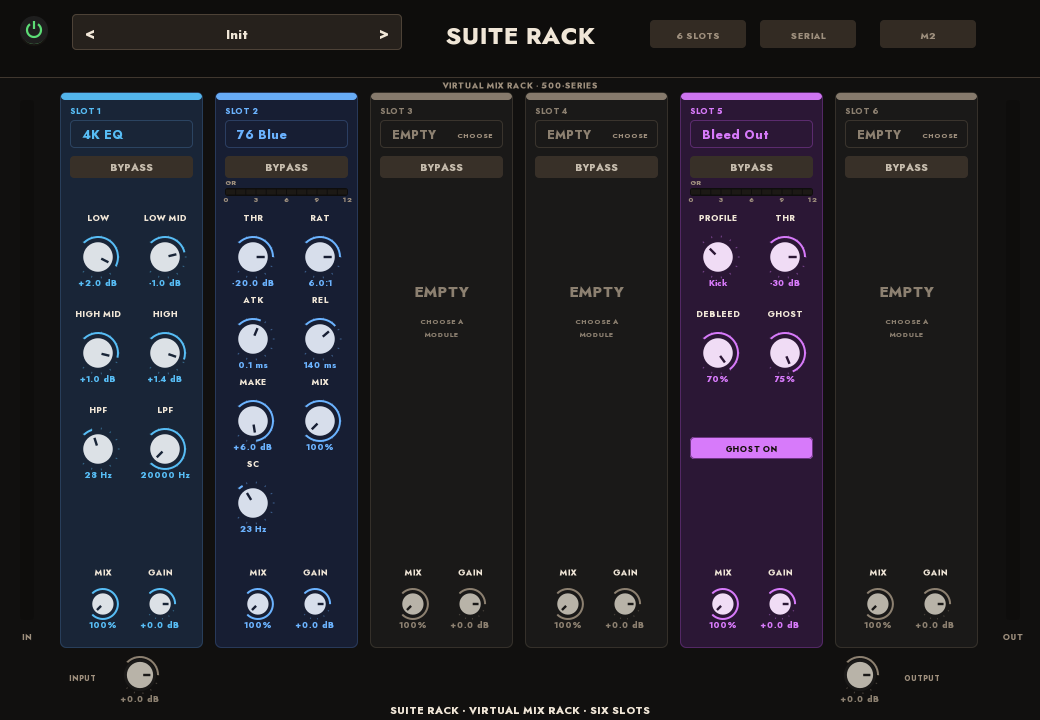
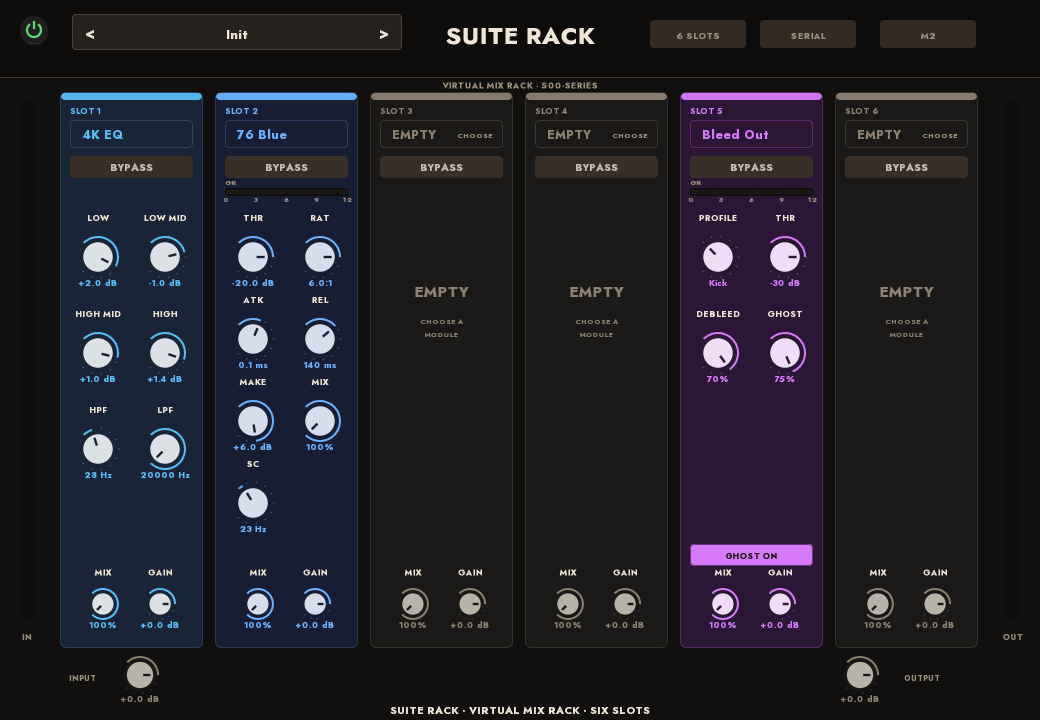
Suite Rack 0.10.0-m2 — Filter and Motion modules, bottom mode buttons

Changed region(s): [[0.6462, 0.7333, 0.8, 0.7944], [0.6462, 0.5806, 0.8, 0.6417]]

diff --git a/src/ui/panel.cpp b/src/ui/panel.cpp
@@ -120,6 +120,12 @@ ModuleStyle styleFor(int type) {
     case ModuleId::Crush:
       return {{0.24, 0.11, 0.07}, {0.50, 0.24, 0.12},
               {0.98, 0.56, 0.24}, {0.94, 0.86, 0.72}};
+    case ModuleId::Filter:
+      return {{0.08, 0.14, 0.21}, {0.18, 0.30, 0.42},
+              {0.42, 0.76, 0.98}, {0.86, 0.91, 0.94}};
+    case ModuleId::Motion:
+      return {{0.24, 0.13, 0.08}, {0.50, 0.28, 0.14},
+              {0.98, 0.66, 0.28}, {0.95, 0.88, 0.74}};
     default:
       return {{0.105, 0.10, 0.095}, {0.24, 0.22, 0.19},
               {0.55, 0.50, 0.44}, {0.72, 0.70, 0.66}};
@@ -248,27 +254,31 @@ void Panel::layout(const Shared& shared, const PanelState& state) {
     if (module->controlCount > 0) {
       const int rows = (module->controlCount + 1) / 2;
       const double rowH = rows >= 4 ? 82.0 : 96.0;
+      int toggleSlot = 0;
       for (int k = 0; k < module->controlCount; ++k) {
         const ControlDesc& control = module->controls[k];
-        const double ky = y + 165.0 + (k / 2) * rowH;
         if (control.toggled) {
+          // Mode buttons live at the bottom of the control area, just above
+          // the MIX/GAIN labels, so they never sit on top of a knob.
           Widget t{};
           t.kind = Kind::ModuleToggle;
           t.param = slotParam(i, kSlotOffsetC0 + control.param);
           t.x = x + 10;
-          t.y = ky - 12;
+          t.y = y + 452.0 - toggleSlot * 30.0;
           t.w = colW - 20;
           t.h = 22;
           t.label = control.label;
           t.styleSlot = i;
           t.styleType = type;
           widgets_.push_back(t);
-        } else {
-          const double kx = (k & 1) ? cx2 : cx1;
-          knob(slotParam(i, kSlotOffsetC0 + control.param), kx, ky, 18,
-               control.label, i, true, control.param,
-               control.stepped ? control.labels.count : 0);
+          ++toggleSlot;
+          continue;
         }
+        const double kx = (k & 1) ? cx2 : cx1;
+        const double ky = y + 165.0 + (k / 2) * rowH;
+        knob(slotParam(i, kSlotOffsetC0 + control.param), kx, ky, 18,
+             control.label, i, true, control.param,
+             control.stepped ? control.labels.count : 0);
       }
     }
 

diff --git a/src/modules.hpp b/src/modules.hpp
@@ -43,6 +43,10 @@ enum class ControlFormat {
   MonoHz,
   CrushBits,
   CrushToneHz,
+  FilterCutoffHz,
+  LfoRateHz,
+  FilterMode,
+  MotionMode,
 };
 
 struct ControlDesc {
@@ -164,6 +168,28 @@ inline constexpr ControlDesc kBleedOutControls[] = {
     {2, "DEBLEED", "DeBleed", ControlFormat::Percent},
     {3, "GHOST", "Ghost", ControlFormat::Percent},
     {4, "GHOST ON", "Ghost On", ControlFormat::Percent, false, {}, true},
+};
+
+inline constexpr const char* kFilterModeLabels[] = {"LP", "BP", "HP"};
+inline constexpr const char* kMotionModeLabels[] = {"Tremolo", "Auto-Pan",
+                                                    "Rotary"};
+
+inline constexpr ControlDesc kFilterControls[] = {
+    {0, "CUTOFF", "Cutoff", ControlFormat::FilterCutoffHz},
+    {1, "RES", "Resonance", ControlFormat::Percent},
+    {2, "ENV", "Envelope", ControlFormat::BipolarPercent},
+    {3, "RATE", "Rate", ControlFormat::LfoRateHz},
+    {4, "MODE", "Mode", ControlFormat::FilterMode, true,
+     labels(kFilterModeLabels)},
+};
+
+inline constexpr ControlDesc kMotionControls[] = {
+    {0, "RATE", "Rate", ControlFormat::LfoRateHz},
+    {1, "DEPTH", "Depth", ControlFormat::Percent},
+    {2, "WIDTH", "Width", ControlFormat::Percent},
+    {3, "MODE", "Mode", ControlFormat::MotionMode, true,
+     labels(kMotionModeLabels)},
+    {4, "MIX", "Mix", ControlFormat::Percent},
 };
 
 inline constexpr ControlDesc kImageControls[] = {
@@ -289,6 +315,14 @@ inline constexpr ModuleDesc kModules[] = {
      false, false, 0,
      static_cast<int>(sizeof(kCrushControls) / sizeof(kCrushControls[0])),
      kCrushControls},
+    {ModuleId::Filter, "Filter", "Dyn", "Envelope / LFO auto-filter", false,
+     false, 0,
+     static_cast<int>(sizeof(kFilterControls) / sizeof(kFilterControls[0])),
+     kFilterControls},
+    {ModuleId::Motion, "Motion", "Dyn", "Tremolo, auto-pan and rotary", false,
+     false, 0,
+     static_cast<int>(sizeof(kMotionControls) / sizeof(kMotionControls[0])),
+     kMotionControls},
 };
 
 static_assert(sizeof(kModules) / sizeof(kModules[0]) == kModuleCount,

diff --git a/src/dsp/engine.hpp b/src/dsp/engine.hpp
@@ -31,6 +31,8 @@ public:
     for (auto& limiter : limiter_) limiter.prepare(sr_);
     for (auto& image : image_) image.prepare(sr_);
     for (auto& crush : crush_) crush.prepare(sr_);
+    for (auto& filter : filter_) filter.prepare(sr_);
+    for (auto& motion : motion_) motion.prepare(sr_);
     input_.setTime(15.0f, sr_);
     output_.setTime(15.0f, sr_);
     power_.setTime(20.0f, sr_);
@@ -57,6 +59,8 @@ public:
       limiter_[i].setControls(limiterControlsFrom(c.slot[i]));
       image_[i].setControls(imageControlsFrom(c.slot[i]));
       crush_[i].setControls(crushControlsFrom(c.slot[i]));
+      filter_[i].setControls(filterControlsFrom(c.slot[i]));
+      motion_[i].setControls(motionControlsFrom(c.slot[i]));
       slotGain_[i].setTarget(hdsp::dbToGain(c.slot[i].gainDb));
     }
     input_.setTarget(hdsp::dbToGain(c.inputDb));
@@ -136,6 +140,12 @@ public:
           case ModuleId::Crush:
             crush_[s].process(l, r);
             break;
+          case ModuleId::Filter:
+            filter_[s].process(l, r);
+            break;
+          case ModuleId::Motion:
+            motion_[s].process(l, r);
+            break;
           case ModuleId::Count:
             continue;
         }
@@ -182,6 +192,8 @@ public:
     for (auto& limiter : limiter_) limiter.reset();
     for (auto& image : image_) image.reset();
     for (auto& crush : crush_) crush.reset();
+    for (auto& filter : filter_) filter.reset();
+    for (auto& motion : motion_) motion.reset();
     input_.snap();
     output_.snap();
     power_.snap();
@@ -217,6 +229,8 @@ private:
   hdsp::modules::Limiter limiter_[kSlotCount];
   hdsp::modules::Image image_[kSlotCount];
   hdsp::modules::Crush crush_[kSlotCount];
+  hdsp::modules::Filter filter_[kSlotCount];
+  hdsp::modules::Motion motion_[kSlotCount];
   hdsp::Smoothed input_, output_, power_;
   hdsp::Smoothed slotGain_[kSlotCount];
 };

diff --git a/src/value_text.hpp b/src/value_text.hpp
@@ -159,6 +159,20 @@ inline std::string formatControlValue(const ModuleDesc& module,
     case ControlFormat::CrushToneHz:
       std::snprintf(buf, sizeof(buf), "%.1f kHz", 1.0f * std::pow(20.0f, v));
       return buf;
+    case ControlFormat::FilterCutoffHz:
+      std::snprintf(buf, sizeof(buf), "%.0f Hz", 20.0f * std::pow(1000.0f, v));
+      return buf;
+    case ControlFormat::LfoRateHz:
+      std::snprintf(buf, sizeof(buf), "%.2f Hz", 0.05f * std::pow(200.0f, v));
+      return buf;
+    case ControlFormat::FilterMode: {
+      static const char* names[3] = {"LP", "BP", "HP"};
+      return names[std::clamp(static_cast<int>(std::lround(v * 2.0f)), 0, 2)];
+    }
+    case ControlFormat::MotionMode: {
+      static const char* names[3] = {"Tremolo", "Auto-Pan", "Rotary"};
+      return names[std::clamp(static_cast<int>(std::lround(v * 2.0f)), 0, 2)];
+    }
   }
   std::snprintf(buf, sizeof(buf), "%.2f", v);
   return buf;
@@ -309,6 +323,12 @@ inline bool parseParamValue(const Shared& shared, uint32_t id,
           case ControlFormat::CrushBits: v = (v - 1.0) / 15.0; break;
           case ControlFormat::CrushToneHz:
             v = std::log(std::max(v, 1.0) / 1.0) / std::log(20.0);
+            break;
+          case ControlFormat::FilterCutoffHz:
+            v = std::log(std::max(v, 20.0) / 20.0) / std::log(1000.0);
+            break;
+          case ControlFormat::LfoRateHz:
+            v = std::log(std::max(v, 0.05) / 0.05) / std::log(200.0);
             break;
           default: break;
         }

diff --git a/src/module_ids.hpp b/src/module_ids.hpp
@@ -31,6 +31,8 @@ enum class ModuleId : int {
   Limiter,
   Image,
   Crush,
+  Filter,
+  Motion,
   Count
 };
 
@@ -41,7 +43,7 @@ inline constexpr const char* kModuleLabels[] = {
     "76 Blue",   "76 Black", "2A",        "3A",        "VCA",
     "Valve",     "Console",  "Bus",       "Tape",      "Transformer",
     "Gate",      "Transient", "Clip",     "De-Ess",   "Density",
-    "Bleed Out", "Peak Limiter", "Image", "Crush",
+    "Bleed Out", "Peak Limiter", "Image", "Crush", "Filter", "Motion",
 };
 
 static_assert(sizeof(kModuleLabels) / sizeof(kModuleLabels[0]) == kModuleCount,
@@ -261,6 +263,24 @@ constexpr double defaultControlValue(ModuleId id, int control) noexcept {
         case 1: return 1.00;  // Rate: full
         case 2: return 1.00;  // Tone: open
         case 3: return 1.00;  // Mix
+        default: return 0.50;
+      }
+    case ModuleId::Filter:
+      switch (control) {
+        case 0: return 0.50;  // Cutoff
+        case 1: return 0.20;  // Resonance
+        case 2: return 0.50;  // Envelope
+        case 3: return 0.50;  // Rate
+        case 4: return 0.00;  // Mode: LP
+        default: return 0.50;
+      }
+    case ModuleId::Motion:
+      switch (control) {
+        case 0: return 0.50;  // Rate
+        case 1: return 0.50;  // Depth
+        case 2: return 1.00;  // Width
+        case 3: return 0.00;  // Mode: Tremolo
+        case 4: return 1.00;  // Mix
         default: return 0.50;
       }
     default:

diff --git a/src/dsp/module_map.hpp b/src/dsp/module_map.hpp
@@ -105,6 +105,32 @@ inline hdsp::modules::ClipControls clipControlsFrom(
   return out;
 }
 
+inline hdsp::modules::FilterControls filterControlsFrom(
+    const SlotControls& c) noexcept {
+  hdsp::modules::FilterControls out;
+  out.cutoff = c.c[0];
+  out.resonance = c.c[1];
+  out.envelope = c.c[2];
+  out.rate = c.c[3];
+  out.mode = std::clamp(
+      static_cast<int>(std::lround(std::clamp(c.c[4], 0.0f, 1.0f) * 2.0f)), 0,
+      2);
+  return out;
+}
+
+inline hdsp::modules::MotionControls motionControlsFrom(
+    const SlotControls& c) noexcept {
+  hdsp::modules::MotionControls out;
+  out.rate = c.c[0];
+  out.depth = c.c[1];
+  out.width = c.c[2];
+  out.mode = std::clamp(
+      static_cast<int>(std::lround(std::clamp(c.c[3], 0.0f, 1.0f) * 2.0f)), 0,
+      2);
+  out.mix = c.c[4];
+  return out;
+}
+
 inline hdsp::modules::ImageControls imageControlsFrom(
     const SlotControls& c) noexcept {
   hdsp::modules::ImageControls out;

diff --git a/test/ui_preview.cpp b/test/ui_preview.cpp
@@ -40,6 +40,11 @@ int main(int argc, char** argv) {
   state.selectedSlot = 2;
   panel.draw(cr, s, state);
   cairo_surface_write_to_png(surf, (out + "/rack-image.png").c_str());
+  applyModuleDefaults(s, 2, static_cast<int>(ModuleId::Filter));
+  applyModuleDefaults(s, 3, static_cast<int>(ModuleId::Motion));
+  state.selectedSlot = 2;
+  panel.draw(cr, s, state);
+  cairo_surface_write_to_png(surf, (out + "/rack-filter.png").c_str());
   cairo_destroy(cr);
   cairo_surface_destroy(surf);
   std::printf("wrote rack-eq.png and rack-comp.png\n");

diff --git a/src/version.hpp b/src/version.hpp
@@ -4,7 +4,7 @@
 
 namespace rack {
 constexpr int kVersionMajor = 0;
-constexpr int kVersionMinor = 9;
+constexpr int kVersionMinor = 10;
 constexpr int kVersionMicro = 0;
-constexpr const char* kVersion = "0.9.0-m2";
+constexpr const char* kVersion = "0.10.0-m2";
 } // namespace rack

diff --git a/README.md b/README.md
@@ -1,6 +1,6 @@
 # Suite Rack
 
-**Status: 0.9.0-m2 — CLAP + LV2, module registry and twenty-three modules.**
+**Status: 0.10.0-m2 — CLAP + LV2, module registry and twenty-five modules.**
 The rest of the catalog, drag/reorder, module presets, browser search and user
 presets are next.
 
@@ -26,6 +26,8 @@ standalone plugins remain the full versions.
 ![Suite Rack — Peak Limiter](docs/rack-limiter.png)
 
 ![Suite Rack — Image and Crush](docs/rack-image.png)
+
+![Suite Rack — Filter and Motion](docs/rack-filter.png)
 
 ## What goes in the rack
 
@@ -64,7 +66,7 @@ standalone plugins remain the full versions.
 Suite tools (spectral editor, De-Clip, De-Reverb, De-Noise). Those do not fit
 the 500-series format; Cleanup is the lightweight repair representative.
 
-## Current 0.9.0-m2 slice
+## Current 0.10.0-m2 slice
 
 - 1040×720 panel with the Comp Suite-family header: power, preset bar, centered
   title, utility pills.
@@ -80,7 +82,7 @@ the 500-series format; Cleanup is the lightweight repair representative.
   gain. Host automation follows the slot, not the module.
 - **Available modules:** 4K EQ, Hearth EQ, Tilt, Air, 76 Blue, 76 Black, 2A,
   3A, VCA, Valve, Console, Bus, Tape, Transformer, Gate, Transient, Clip and
-  De-Ess, Density, Bleed Out, Peak Limiter, Image and Crush.
+  De-Ess, Density, Bleed Out, Peak Limiter, Image, Crush, Filter and Motion.
 - Serial engine and per-slot meters in place; DSP and panel tests pass.
 - **CLAP and LV2 builds** load in REAPER with the six-column editor and process
   audio.

diff --git a/CHANGELOG.md b/CHANGELOG.md
@@ -1,5 +1,12 @@
 # Changelog
 
+## 0.10.0-m2 — 2026-11-17
+
+- Added Filter: cutoff, resonance, envelope amount, LFO rate and LP/BP/HP mode.
+- Added Motion: tremolo, auto-pan and rotary with rate, depth, width and mix.
+- Mode buttons now sit just above the MIX/GAIN labels instead of over knobs.
+- Filter and Motion live in hearth-dsp and are consumed through the submodule.
+
 ## 0.9.0-m2 — 2026-11-17
 
 - Added Image: width, mono-maker, balance and an M/S monitor toggle.
